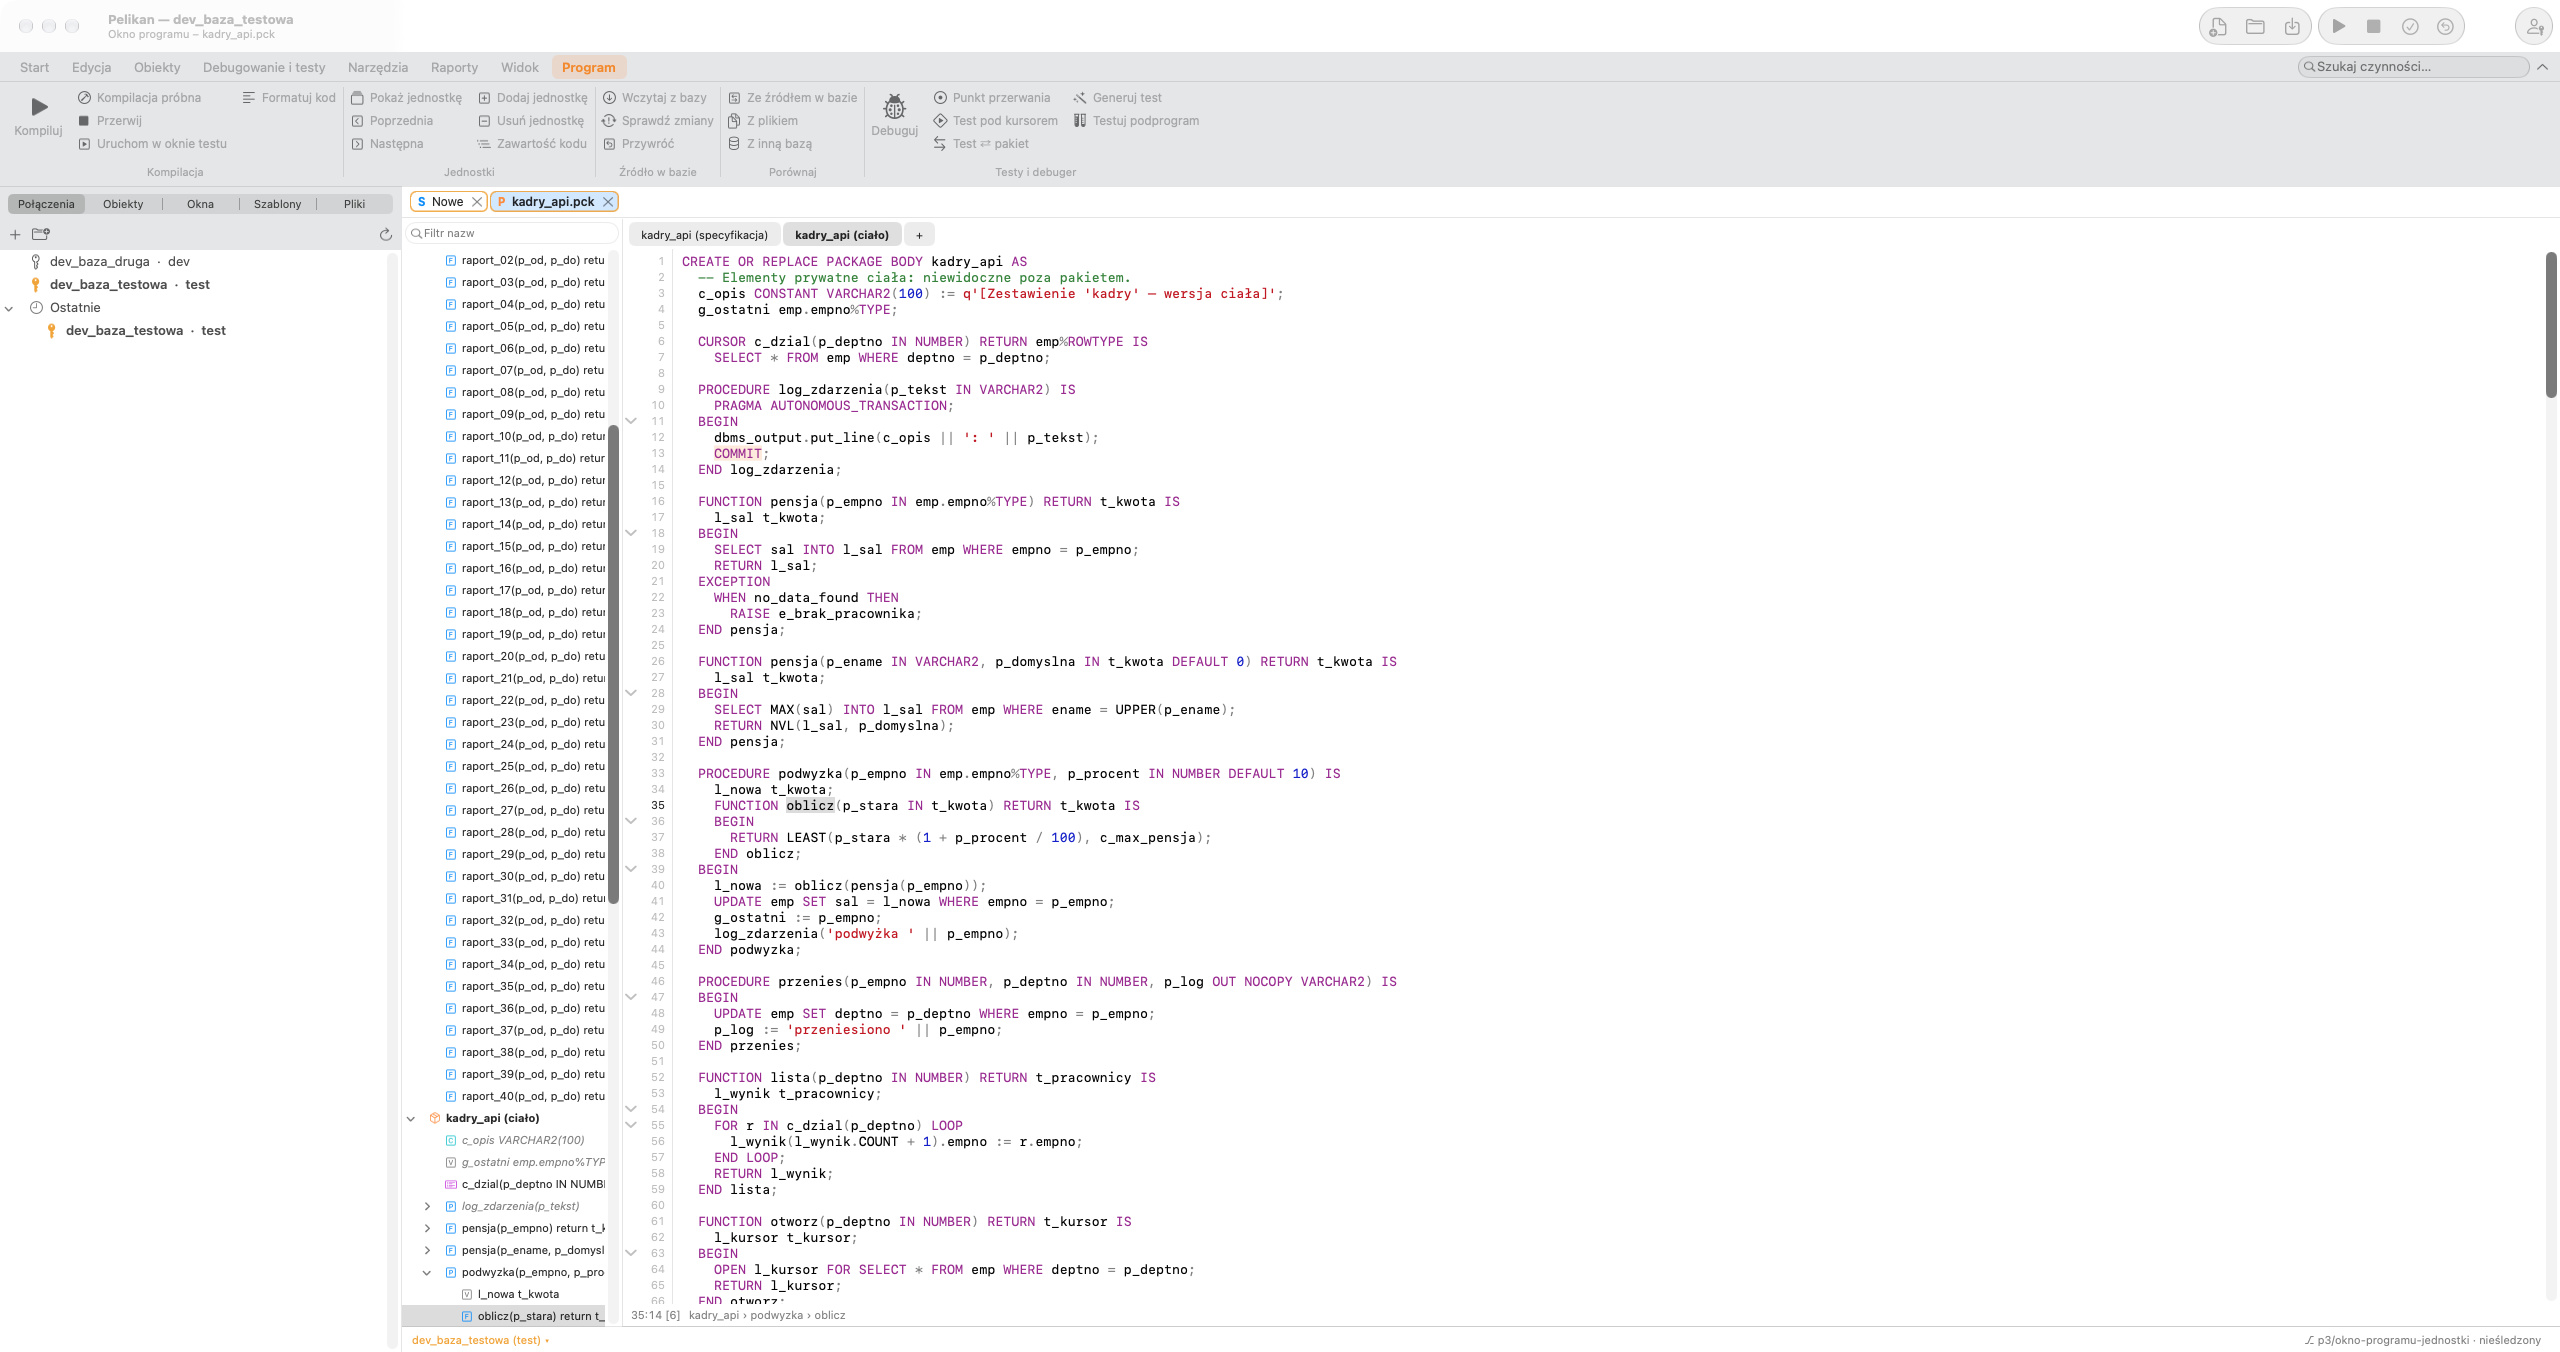
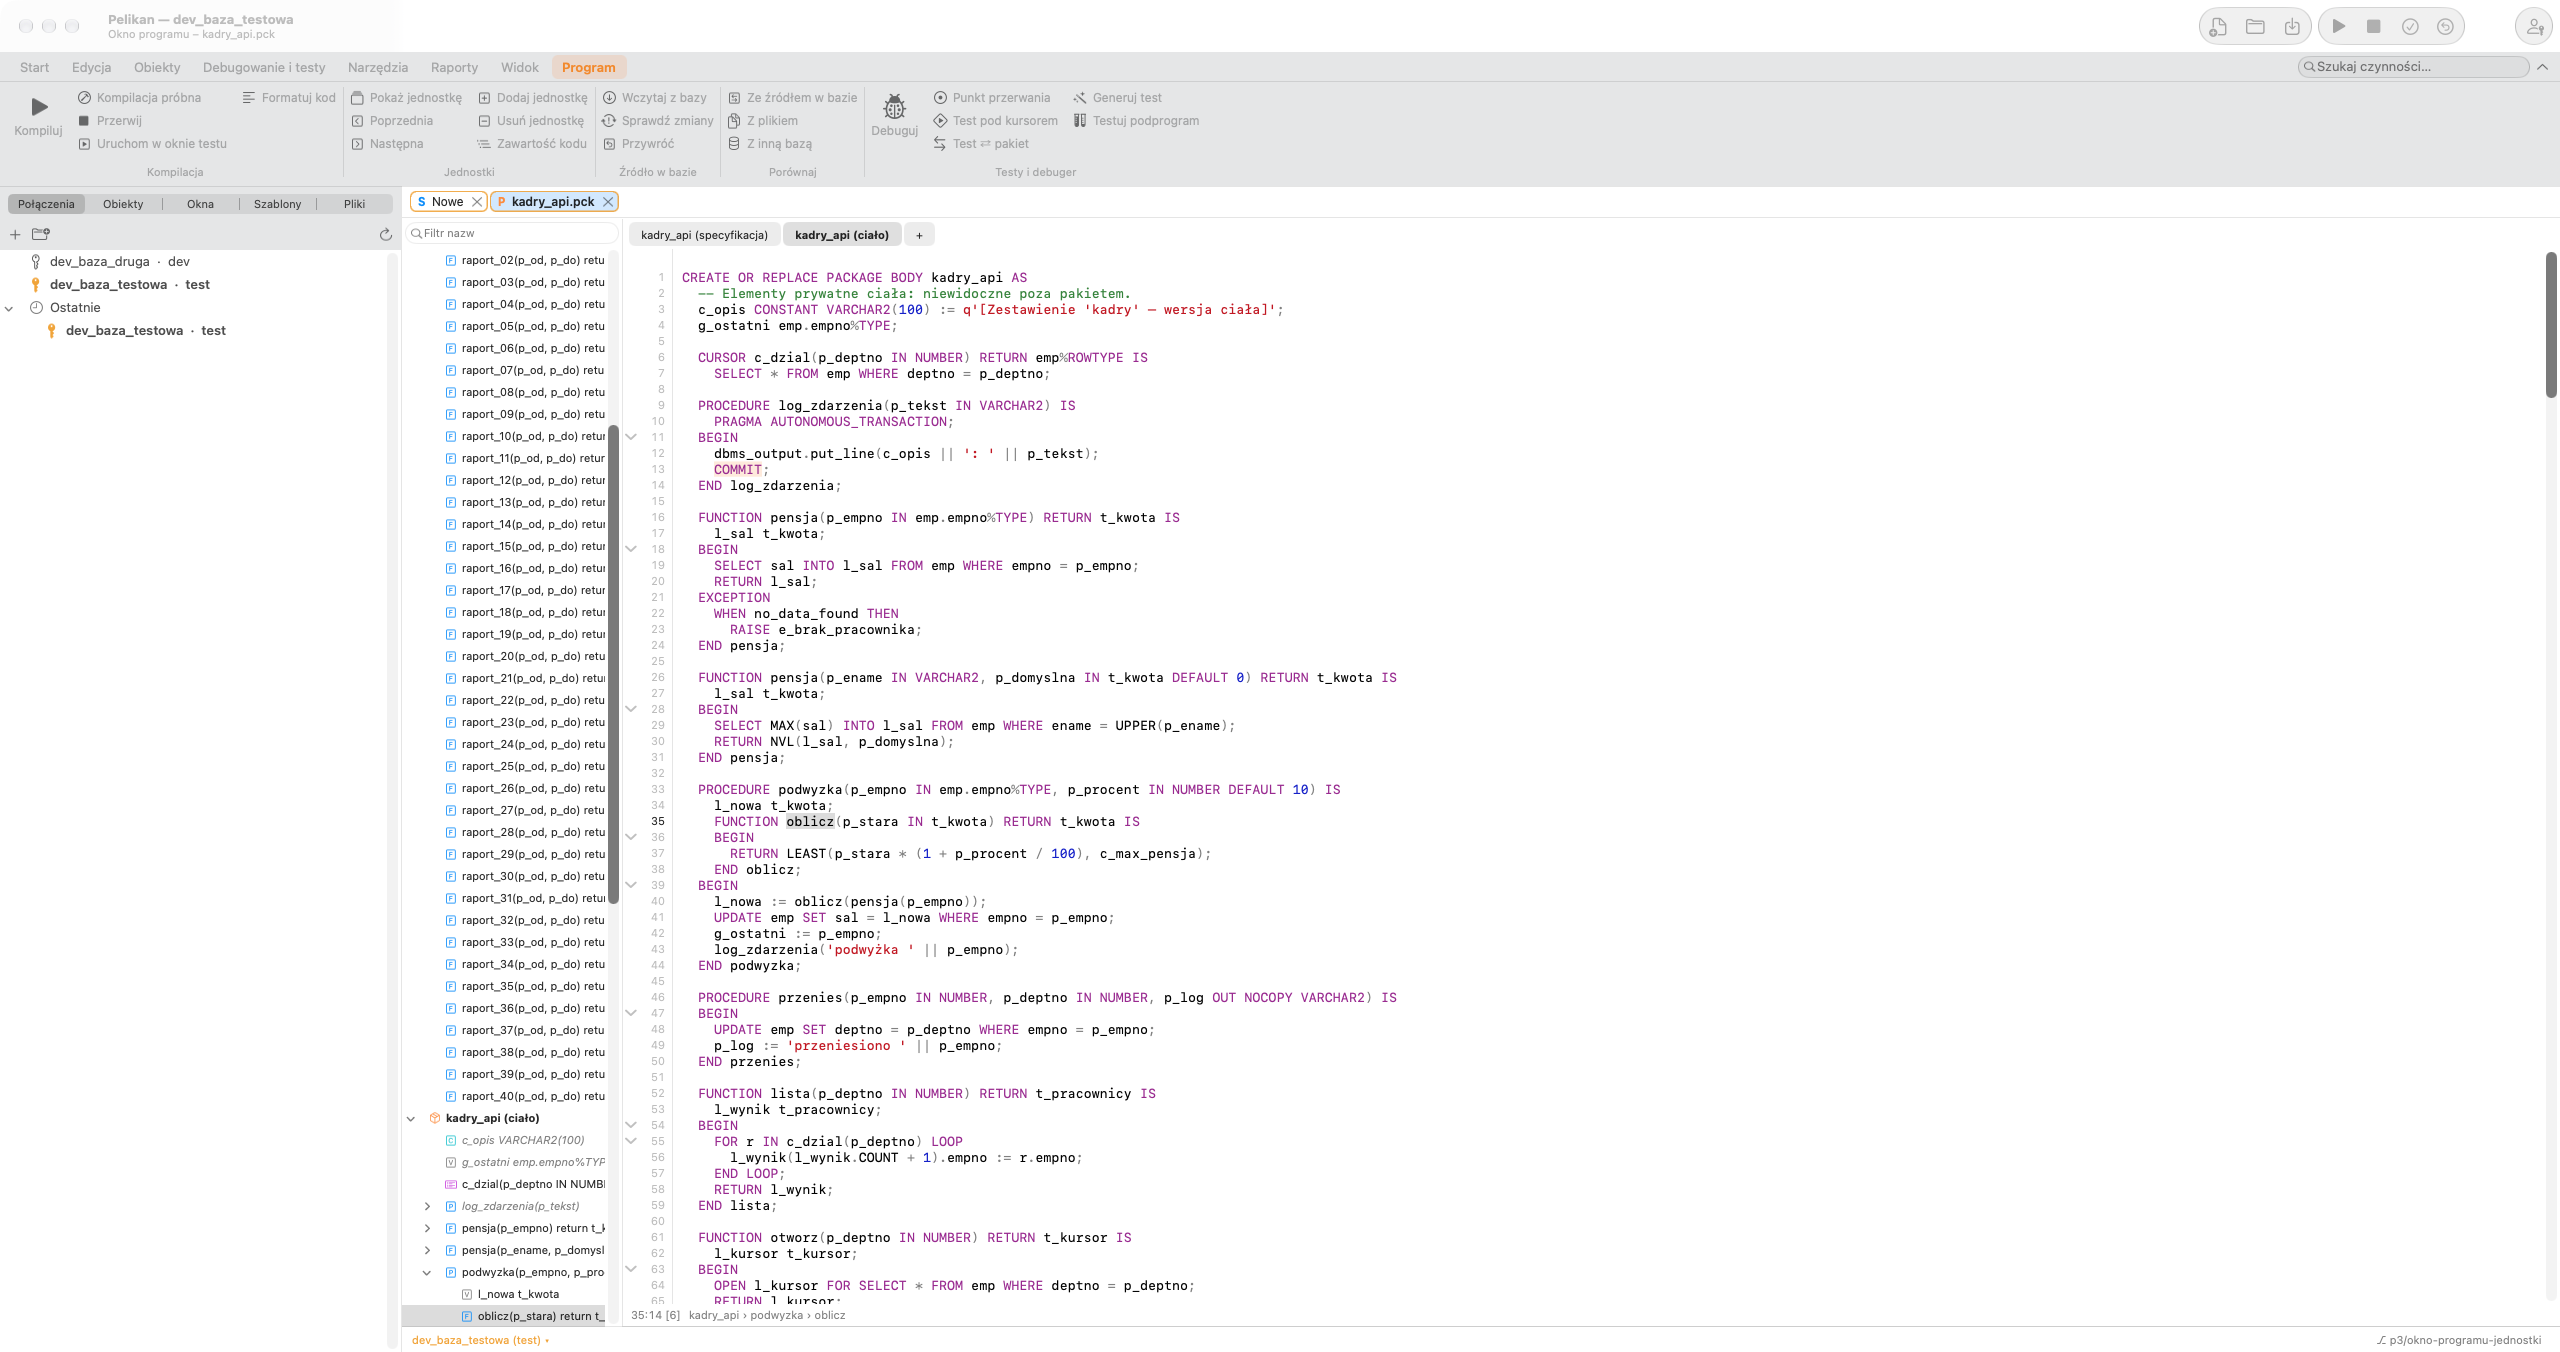
docs: D192 review fixes, manual line wrap, refreshed screenshots (PD-PROG-001)

diff --git a/docs/DECISIONS.md b/docs/DECISIONS.md
@@ -1985,8 +1985,8 @@ a struktura pakietu z lewej nie nawiguje i jest uboższa niż w innych programac
   (`scrollToSelection`) sprawdza ramkę fragmentu po układzie widocznego obszaru i poprawia położenie (do czterech
   razy, bez układu całego tekstu).
 - **Karty:** dokument zostaje jeden (zapis, F8 — wszystkie jednostki, worksety, historia lokalna, agent bez zmian).
-  Tekst dzieli się na rozłączne odcinki pełnych linii (`ProgramUnitTabs`): kończący `/` i puste linie należą do
-  jednostki przed nimi, komentarz przed `CREATE` — do następnej. Edytor ukrywa odcinki innych kart tym samym
+  Tekst dzieli się na rozłączne odcinki pełnych linii (`ProgramUnitTabs`): kończący `/` należy do jednostki przed
+  nim, puste linie i komentarz przed `CREATE` — do następnej. Edytor ukrywa odcinki innych kart tym samym
   mechanizmem co zwijanie (`FoldingContentDelegate` pomija akapity, zakresy zwinięć i kart scalone). Karta aktywna to
   zawsze karta odcinka z kursorem (`Document.activeUnitTab`) — dlatego każde przejście z modelu w inne miejsce tekstu
   przełącza kartę samo: komunikat kompilacji, Zawartość kodu, Znajdź następne/poprzednie, Przejdź do deklaracji, Idź do
@@ -2008,7 +2008,9 @@ a struktura pakietu z lewej nie nawiguje i jest uboższa niż w innych programac
   tak jak ALL_SOURCE i ALL_ERRORS oraz jak w oknie programu wzorca (każda jednostka ma własny edytor numerowany od 1).
   Linie przed słowem typu (komentarz nagłówka, `CREATE OR REPLACE` w osobnej linii) są bez numeru („–” na pasku).
   Idź do linii poza końcem jednostki zostaje na jej ostatniej linii. Okno bez kart — linie dokumentu jak dotąd.
-  Agent i komendy z pozycją w tekście (offsety, `executionLine`, punkty przerwania) dalej działają na dokumencie.
+  Agent (także `edit.gotoLine` wywołane przez agenta) i komendy z pozycją w tekście (offsety, `executionLine`,
+  punkty przerwania) dalej działają na liniach dokumentu. Wydruk i lista To-Do (także `edit.todoToggle` z numerem
+  linii) też — drukowany jest cały tekst okna, wszystkie jednostki, z numeracją dokumentu.
 - **Wyszukiwanie:** Znajdź następne/poprzednie przeszukuje cały dokument i przełącza kartę na trafienie w innej
   jednostce (Pelikan nie ma osobnych edytorów kart; zakres „cały tekst” zamiast „bieżąca karta” — mniej klikania przy
   szukaniu użycia w specyfikacji i ciele). **Zamień wszystko** działa na całym dokumencie (wszystkie jednostki),
@@ -2028,3 +2030,20 @@ a struktura pakietu z lewej nie nawiguje i jest uboższa niż w innych programac
   60 000 linii 0,5–1 s na przełączenie (Debug). Przy okazji: inspekcja nieużywanych deklaracji przeglądała wszystkie
   tokeny dla każdej deklaracji (pakiet 60 000 linii z 5 000 funkcji blokował główny wątek na minuty) — teraz indeks
   pozycji słów i wyszukiwanie binarne.
+- **Poprawki po przeglądzie kodu:** wstawienie dokładnie na granicy kart należy do karty późniejszej (kursor na
+  początku karty stoi na granicy — Enter, wklejenie, To-Do w pierwszej kolumnie zostają na karcie); ostatnia karta
+  zawsze do końca tekstu. Zmiana obejmująca granicę (Zamień wszystko, formatowanie całości, Przywróć, historia
+  lokalna, cofnięcie takich zmian) dzieli tekst na karty od razu, bez czekania na analizę w tle. Po analizie w tle,
+  która zmieniła kartę (okno otwarte na linii, debuger, usunięcie jednostki), edytor przewija do kursora. Komendy
+  edycji z modelu nie zmieniają tekstu poza kartą (`Document.unitEditBounds` publikowane przez edytor — np. „Usuń
+  następne słowo” na końcu karty odmawia), dodatkowe kursory nie trafiają do ukrytej jednostki, a Usuń jednostkę
+  bez argumentu usuwa jednostkę karty z kursorem. Walidacja menu i wstążki komend kart korzysta z liczby kart z
+  ostatniego podziału (`Document.unitTabCount`), bez dzielenia tekstu przy każdym znaku (R4-01); pozycja słowa typu
+  liczona w tekście jednostki, nie w całym dokumencie. Numery linii listy komunikatów liczone raz na listę. ⌘A
+  i przeciąganie myszą nie przewijają na koniec karty. Code Contents: stan rozwinięcia z rodzajem węzła
+  (specyfikacja i ciało osobno), rozwinięcie sprzed filtra przywracane, filtr z opóźnieniem 180 ms, sortowanie nie
+  zmienia kolejności parametrów; prywatne przeciążenie (jedna wersja w specyfikacji, dwie w ciele) zostaje
+  prywatne; pragmy nie trafiają do podpowiedzi kodu ani do „Przejdź do deklaracji”.
+- **Podzielony edytor:** bez dodatkowych kursorów zaznaczenie główne stosuje tylko `syncFromModel`, który pomija
+  panel, gdy pisze się w drugim (`peerActive`) — pasywny panel podziału (okna SQL, programu, testu) nie przesuwa
+  kursora za aktywnym, tak jak dotąd przy wpisywaniu tekstu.

diff --git a/docs/manual/uk/06-programy.md b/docs/manual/uk/06-programy.md
@@ -70,8 +70,8 @@ Window. У розділі **Налагоджувач** вмикається ав
   змінні, константи, винятки, прагми й вкладені підпрограми. Приватні елементи тіла (не оголошені в специфікації)
   показано курсивом. Клацання або Enter переносить курсор до елемента (також на іншій вкладці), стрілки в дереві
   переміщують курсор, не виходячи з дерева. Поле над деревом фільтрує назви. Дерево відстежує курсор, має сортування й
-  меню (виділити, копіювати, вирізати, тестувати підпрограму, розгорнути/згорнути все). Під редактором **ієрархія коду** показує шлях від курсора (пакет ›
-  процедура › блок); клацання рівня виділяє його або переносить до назви.
+  меню (виділити, копіювати, вирізати, тестувати підпрограму, розгорнути/згорнути все). Під редактором **ієрархія
+  коду** показує шлях від курсора (пакет › процедура › блок); клацання рівня виділяє його або переносить до назви.
 - Контекстне меню на назві об'єкта бази в редакторі пропонує ті самі дії, що й Object Browser.
 - **F1** відкриває документацію Oracle для слова під курсором.
 

diff --git a/docs/manual/en/06-programy.md b/docs/manual/en/06-programy.md
@@ -73,8 +73,9 @@ thousands of lines.
   subtype), cursors, variables, constants, exceptions, pragmas and nested subprograms. Private body elements (not
   declared in the specification) are italic. A click or Enter moves the cursor to the element (also on another tab),
   arrow keys in the tree move the cursor without leaving the tree. The field above the tree filters names. The tree
-  tracks the cursor and has sorting and a menu (select, copy, cut, test subprogram, expand/collapse all). Below the editor, the **code hierarchy** shows the path from the cursor (package › procedure ›
-  block); clicking a level selects it or moves to its name.
+  tracks the cursor and has sorting and a menu (select, copy, cut, test subprogram, expand/collapse all). Below the
+  editor, the **code hierarchy** shows the path from the cursor (package › procedure › block); clicking a level
+  selects it or moves to its name.
 - The context menu on a database object name in the editor offers the same actions as the Object Browser.
 - **F1** opens the Oracle documentation for the word under the cursor.
 

diff --git a/docs/manual/pl/06-programy.md b/docs/manual/pl/06-programy.md
@@ -70,8 +70,8 @@ kilkadziesiąt tysięcy linii.
   zmienne, stałe, wyjątki, pragmy i podprogramy zagnieżdżone. Elementy prywatne ciała (niezadeklarowane w
   specyfikacji) są pochylone. Klik albo Enter przenosi kursor do elementu (także na innej karcie), strzałki w drzewie
   przesuwają kursor bez opuszczania drzewa. Pole nad drzewem filtruje nazwy. Drzewo śledzi kursor, ma sortowanie i menu
-  (zaznacz, kopiuj, wytnij, testuj podprogram, rozwiń/zwiń wszystko). Pod edytorem **hierarchia kodu** pokazuje ścieżkę od kursora (pakiet › procedura
-  › blok); kliknięcie poziomu zaznacza go albo przenosi do nazwy.
+  (zaznacz, kopiuj, wytnij, testuj podprogram, rozwiń/zwiń wszystko). Pod edytorem **hierarchia kodu** pokazuje
+  ścieżkę od kursora (pakiet › procedura › blok); kliknięcie poziomu zaznacza go albo przenosi do nazwy.
 - Menu kontekstowe na nazwie obiektu bazy w edytorze oferuje te same czynności co Przeglądarka obiektów.
 - **F1** otwiera dokumentację Oracle dla słowa pod kursorem.
 
